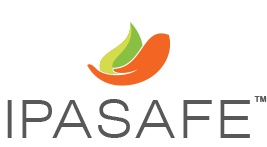
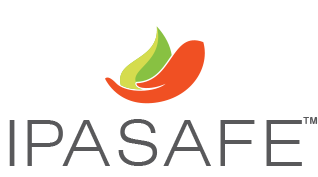
images and css changese

diff --git a/styles/style.css b/styles/style.css
@@ -193,7 +193,7 @@ input:-moz-placeholder {
 /*Header*/
 .header-area { position: absolute; left: 0; top: 0; width: 100%; top: 0; left: 0; width: 100%; transition: all 500ms ease; -moz-transition: all 500ms ease; -webkit-transition: all 500ms ease; -ms-transition: all 500ms ease; -o-transition: all 500ms ease; z-index: 999; }
 .header-area.fixed-header .header-lower{/*box-shadow: 0 0 7px 2px rgba(0,0,0,0.25);*/border-bottom: 1px solid rgba(170,170,170,0.26);}
-.header-lawer-content .logo { text-align: center; padding: 20px 0 20px 0; width:200px; }
+.header-lawer-content .logo { text-align: center; padding: 20px 0 20px 0; width:392px; }
 .header-lawer-content .logo a { display: inline-block; }
 .main-menu { position: relative; }
 .main-menu .navigation { margin: 0; position: relative; text-align: center }
@@ -201,7 +201,7 @@ input:-moz-placeholder {
 .main-menu .navigation li:first-child { margin-left: 0px; }
 .main-menu .navigation li::before { }
 .main-menu .navigation li:last-child:before { display: none; }
-.main-menu .navigation li a { text-decoration: none; position: relative; color: #404041; display: block; font-size: 15px; line-height: 16px; text-transform: uppercase; opacity: 1; padding: 20px 0px 30px 0; transition: all 300ms ease;font-weight: 400;}
+.main-menu .navigation li a { text-decoration: none; position: relative; color: #404041; display: block; font-size: 15px; line-height: 16px; text-transform: uppercase; opacity: 1; padding: 20px 0px 20px 0; transition: all 300ms ease;font-weight: 400;}
 .main-menu .navigation li a i{margin-left: 5px;}
 .main-menu .navigation li .menuIcons a { font-size: 20px; display: inline-block; vertical-align: middle; margin: 0 5px }
 .main-menu .navigation li .menuIcons a:first-child { margin-left: 0 }
@@ -220,7 +220,7 @@ input:-moz-placeholder {
 .mainmenu-middle ul li { display: inline-block; float: left; margin-right: 10px; border-right: 1px solid #e4e4e4; padding-right: 10px; }
 .mainmenu-middle ul li:last-child { margin-right: 0px; border-right: 0px solid #e4e4e4; padding-right: 0px; }
 .header-lower-left { float: left }
-.header-lower-right { float: right; margin-top: 35px; }
+.header-lower-right { float: right; margin-top: 55px; }
 .header-lower-left .dsirLogo{float:left; width:27px; margin-left:40px; margin-top:40px;}
 .header-lower-left .logo{float:left}
 .dsirLogo img{max-width:100%;}
@@ -428,8 +428,10 @@ h3.home-about-text span.smallLeaf img{height: 12px;}
 	margin-top: 20px;
 }
 .heading p.cases-desc{
-	font-size: 16px; margin-bottom: 1rem;
+	font-size: 16px; margin-bottom: 1rem;letter-spacing: -0.3px;
 }
+.heading h2.sizes-heading{font-size: 52px;line-height: 62px;}
+.product-hr{margin-bottom: 2rem;}
 .cases-item-customer { font-size: 12px;  font-weight:300; margin: 0 }
 .product-1 { background: url(../images/product-img-1.jpg) }
 .product-2 { background: url(../images/product-img-2.jpg) }
@@ -539,8 +541,8 @@ overflow: hidden }
 .phylosypyText1.chromalgin2color ul li a{color: #fff;text-decoration:underline;}
 .phylosypyText1.chromalgin2color ul li a:hover{font-weight:400;}
 .phylosypyText1.chromalgin2color ul li i{}
-.phylosypyText1.chromalgin2color ul li i img {width: 130px;}
-.phylosypyText1.chromalgin2color ul li p {color: #fff;margin: 0;}
+.phylosypyText1.chromalgin2color ul li i img {width: 176px;}
+.phylosypyText1.chromalgin2color ul li p {color: #fff;margin:20px 0 0 0;font-size:32px;font-weight: 100;}
 
 .chromalgin-page #whatDoctorSays{position:relative;top:-60px;}
 
@@ -618,7 +620,9 @@ overflow: hidden }
 .panel .answer .pointers{background: #ddd;padding: 10px 10px;}
 .panel .answer ul{margin-bottom:30px;margin-top:-10px;}
 .panel .answer li {margin-bottom: 10px;font-size: 17px;line-height: 26px;padding-left: 35px;position: relative;background: url(../images/small-leaf.png) 0px 9px no-repeat;background-size: 18px;}
-.otherProduct li {    margin-bottom: 10px; font-size: 17px; line-height: 26px; padding-left: 22px; position: relative; background: url(../images/blackBullet.png) 0px 2px no-repeat; background-size: 14px;}
+.otherProduct {margin-bottom: 20px;}
+.features-heading{margin-bottom: 10px;}
+.otherProduct li {    margin-bottom: 0px; font-size: 17px; line-height: 26px; padding-left: 22px; position: relative; background: url(../images/blackBullet.png) 0px 2px no-repeat; background-size: 14px;}
 .references ol li { margin-top: 5px; font-size: 12px; line-height: 15px; position: relative; list-style-type: decimal;margin-left: 13px; }
 .panel .answer li:before {content: "";width: 10px;height: 1px;position: absolute;top: 12px;left: 8px;background: #404040;}
 .brakebox {padding-bottom:30px;}
@@ -684,7 +688,8 @@ overflow: hidden }
 .innerpageHeading {background:#fff; position:relative; z-index:1}
 .phylosopyBloack{position:relative; z-index:3; background:#fff;}
 .innerBanner{position:relative}
-.innerpageHeading .heading{padding-top:210px; padding-bottom:70px}
+.innerpageHeading .heading{padding-top:120px; padding-bottom:70px}
+.ipasafe-bottle{margin-left:100px;}
 .innerPageTop{padding-top:100px}
 .innerBannerBlock{position:relative; background-position: 50% 50%;background-repeat: no-repeat;background-attachment: fixed;background-size: cover;}
 .phylosophyBg{background:url(../images/philosophy-bg.jpg) 0 0 no-repeat;background-position: center center;background-attachment: fixed;background-size: cover; min-height:80vh}
@@ -759,8 +764,8 @@ ul.dash-bullet li:before{content:"";position:absolute;width: 10px;height: 1px;ba
 }
 @media(min-width:1920px) {
 .ourmissionBg{background:#f2f2f2 url(../images/our-mission-bg.jpg) left center no-repeat; background-size:cover;background-position: center -50px;}
-.phylosypyText1.chromalgin2color ul li{padding: 40px 80px;}
-.phylosypyText.chromalgin2color ul li{padding: 40px 80px;}
+.phylosypyText1.chromalgin2color ul li{padding: 40px 20px;}
+.phylosypyText.chromalgin2color ul li{padding: 40px 20px;}
 }
 
 @media screen and (min-width: 1367px) and (max-width:1600px) {
@@ -773,9 +778,14 @@ ul.dash-bullet li:before{content:"";position:absolute;width: 10px;height: 1px;ba
 .container { max-width: 1200px; }
 .expertiseBox{ min-height:700px}
 .rev_slider_wrapper .slide-contentbx {right: 18%;transform: translateY(-22%);}
+
 }
  @media screen and (min-width: 1200px) and (max-width:1600px) {
 .container { max-width: 1200px; }
+.phylosypyText1.chromalgin2color ul li{min-height: 200px;padding: 30px;}
+.phylosypyText1.chromalgin2color ul li i img {width: 130px;}
+.phylosypyText1.chromalgin2color ul li p {font-size:24px;}
+
 }
 @media screen and (min-width: 0) and (max-width:1199px) {
 /*overlay*/
@@ -798,6 +808,10 @@ ul.dash-bullet li:before{content:"";position:absolute;width: 10px;height: 1px;ba
 .phylosophyBg{background-size:auto; min-height:50vh}
 .missionText {margin-top:0 !important}
 .phylosypyText {padding-top:50px;}
+.heading h2.sizes-heading{font-size: 48px;line-height: 52px;}
+.phylosypyText1.chromalgin2color ul li{min-height: 170px;padding: 15px 15px;}
+.phylosypyText1.chromalgin2color ul li i img {width: 100px;}
+.phylosypyText1.chromalgin2color ul li p {font-size:18px;}
 }
  @media screen and (min-width: 0) and (max-width:1024px) {/*For ipad and tab*/
 }
@@ -873,6 +887,7 @@ ul.submenu{position: relative;left: 0;box-shadow: none;width: auto;border-bottom
 .header-lawer-content .logo { padding: 10px 0 }
 .header-lower-left .dsirLogo { margin-top: 17px }
 .heading h2 { font-size: 32px;line-height: 36px; }
+
 .wdsSlider .slick-dots { bottom: -25px; }
 .wdsMovingTxt::before { left: -18px; top: -25px; width: 60px; height: 43px; background-size: 100% auto; }
 .wdsImg { text-align: center }
@@ -917,6 +932,8 @@ p.subhead{font-size:20px;line-height: 26px;}
 .heading{padding:50px 0 50px 0}
 .missionText{padding:0 0 25px 0; margin-top:0 !important}
 .phylosypyText  .smallBlockHeading h3{padding-bottom:1rem;}
+.heading h2.sizes-heading{    font-size: 18px;line-height: 20px;}
+.phylosypyText1.chromalgin2color ul li{min-height: 200px;padding: 15px 15px;}
 }
  @media screen and (min-width: 0) and (max-width:767px) {
 .abouteLeaf { display: none }
@@ -956,7 +973,7 @@ p.subhead{max-width: 100%;}
 .ourMissionBloack .container{padding-top: 20px;padding-bottom:5px;}
 .ourMissionBloack .container img{margin-top: 0!important;}
 .ipasafe-bottle{margin: 0 auto!important;display: block;max-width:200px;}
-.phylosypyText1.chromalgin2color ul li{width: 50%;border-bottom: 1px solid #eee;}
+.phylosypyText1.chromalgin2color ul li{width:49%;border-bottom: 1px solid #eee;}
 .otherProduct ul{margin-bottom: 15px!important;}
 /*.ourmissionBg {background-size: 713px auto;background-position: 0px bottom;padding-top: 0;padding-bottom: 200px;}*/
 .ourmissionBg {background-size: 700px auto;background-position: 0px 335px;padding-top: 0;padding-bottom: 200px;}
@@ -1006,7 +1023,9 @@ br{display:none;}
 .md-mr0{margin-right:0px !important;}
 .md-ml0{margin-left:0px !important;}
 .mob-display{display:block !important}
-
+.phylosypyText1.chromalgin2color ul li {min-height: 170px;}
+.phylosypyText1.chromalgin2color ul li i img{width: 80px;}
+.phylosypyText1.chromalgin2color ul li p{font-size: 16px;}
 }
 @media screen and (min-width: 0) and (max-width:480px) {
 }

diff --git a/ipasafe.html b/ipasafe.html
@@ -23,10 +23,8 @@
           <div class="col-md-12">
             <div class="header-lawer-content clearfix">
               <div class="header-lower-left">
-                <div class="logo"> <a href="index.html"> <img src="images/logo.png" alt="Awesome Logo"> </a> </div>
-                <div class="dsirLogo"> <img src="images/dsir.png">
-                  <p>DSIR recognized R&D Facility</p>
-                </div>
+                <div class="logo"> <a href="index.html"> <img src="images/logo.jpg" alt="Awesome Logo"> </a> </div>
+
                 <div class="clear"></div>
               </div>
               <div class="mobile-nav-icon">
@@ -87,7 +85,7 @@
     <div class="container">
       <div class="heading pb-0 wow animated fadeInUp" data-wow-delay="0.2s">
         <div class="row" style="display: flex;align-items: center;">
-          <div class="col-lg-12 col-md-12 col-sm-12 wow animated fadeInLeft" data-wow-delay="0.2s"> <img src="images/ipasafe.png" class="ml-4 ipasafe-bottle"> </div>
+          <div class="col-lg-12 col-md-12 col-sm-12 wow animated fadeInLeft" data-wow-delay="0.2s"> <img src="images/ipasafe.png" class="ipasafe-bottle"> </div>
         </div>
         <div class="row" style="display: flex;align-items: center;">
           <div class="col-lg-6 col-md-6 col-sm-6 wow animated fadeInLeft" data-wow-delay="0.2s"> <img src="images/ipasafe-tank.png" class="mt-4"> </div>
@@ -104,7 +102,7 @@
               <div class="smallBlockHeading wow fadeInUp" data-wow-delay="0.2s" style="visibility: visible; animation-delay: 0.2s; animation-name: fadeInUp;"> <img src="images/ipasafe.png" width="90%" style="max-width: 267px;" class="ipsafe1"> </div>
             </div>
             <div class="col-lg-8 col-md-8 col-sm-6 col-xs-6 fl wow fadeInLeft ipsafe2 text-left" data-wow-delay="0.8s" style="visibility: visible; animation-delay: 0.8s; animation-name: fadeInLeft;">
-              <h2>is available in two pack sizes</h2>
+              <h2 class="sizes-heading">is available in two pack sizes</h2>
             </div>
             <div class="clear"></div>
           </div>
@@ -125,11 +123,11 @@
               <p class="subhead">Bulk pack for offices, hospitals, markets and congregation points</p>
               <a class="box-btn1" href="#" style="text-decoration: none;">ORDER NOW</a> </div>
           </div>
-          <hr>
+          <hr class="product-hr">
           <h2>instructions for using ipasafe&trade;</sup></h2>
           <div class="row" style="display: flex;align-items: center;">
-            <div class="col-lg-8 col-md-8 col-sm-8 wow  fadeInLeft" data-wow-delay="0.2s" style="visibility: visible; animation-delay: 0.2s; animation-name: fadeInLeft;"> <img src="images/instructions-handwash.png" class="mt-4"> </div>
-            <div class="col-lg-4 col-md-4 col-sm-4 wow  fadeInRight" data-wow-delay="0.2s" style="visibility: visible; animation-delay: 0.2s; animation-name: fadeInRight;">
+            <div class="col-lg-7 col-md-7 col-sm-7 wow  fadeInLeft" data-wow-delay="0.2s" style="visibility: visible; animation-delay: 0.2s; animation-name: fadeInLeft;"> <img src="images/instructions-handwash.png" class="mt-4"> </div>
+            <div class="col-lg-5 col-md-5 col-sm-5 wow  fadeInRight" data-wow-delay="0.2s" style="visibility: visible; animation-delay: 0.2s; animation-name: fadeInRight;">
               <h3 class="instruction-duration cases-item-name font-weight-bold" >Duration of <br>
                 the entire <br>
                 procedure <br>
@@ -138,18 +136,19 @@
             </div>
           </div>
           <p class="instruction-line">Adapted from: Hand Hygiene: Why, How & When? [Internet] [Cited 2020 April 21]. Available at: <a href="https://www.who.int/gpsc/5may/Hand_Hygiene_Why_How_and_When_Brochure.pdf" target="blank">https://www.who.int/gpsc/5may/Hand_Hygiene_Why_How_and_When_Brochure.pdf</a></p>
-          <hr>
+          <hr class="product-hr">
           <h2>composition of ipasafe<sup>tm</sup></h2>
           <div class="row otherProduct">
             <div class="col-md-12">
               <ul class="mb-0 mt-0">
-                <li>Iso Propyl Alcohol (In House) 80%</li>
-                <li>Benzalkonium Chloride and humectants 1%</li>
-                <li>Water (In house) 19%</li>
+                <li>Isopropyl alcohol 80% </li>
+                <li>Benzalkonium chloride and humectants 1%</li>
+                <li>Water 19%</li>
                 <li>Permitted colors and perfumes</li>
               </ul>
             </div>
           </div>
+          <hr class="product-hr">
         </div>
       </div>
     </div>
@@ -157,8 +156,15 @@
   <section class="aboutUsBloack innerpageHeading hiddenoverFlow chromalginpackshot p-0 mb-0">
     <div class="">
       <div class="phylosypyText1 p-md-0 chromalgin2color" style="margin-top: 0px !important;">
+        <div class="container">
+          <div class="heading pt-0 pb-0">
+            <h2 class="features-heading">ipasafe<sup>tm</sup> Features</h2>
+          </div>
+        </div>
         <div class="row">
+
           <div class="col-lg-12 p-0">
+           
             <ul>
               <li class="wow animated fadeIn" data-wow-delay="0.2s" style="background: #f26522;"><i><img src="images/instantProtection.png"></i>
                 <p>Instant protection </p>
@@ -181,7 +187,7 @@
     </div>
   </section>
   <section class="ourMissionBloack">
-    <div class="container heading">
+    <div class="container heading ">
       <div class="phylosypyText11">
         <h2>precautions while using ipasafe<sup>TM</sup></h2>
         <div class="row otherProduct">
@@ -199,7 +205,7 @@
         </div>
       </div>
       <div class="row" style="display: flex;align-items: center;">
-        <div class="col-lg-8 col-md-8 col-sm-8 wow  fadeInLeft" data-wow-delay="0.2s" style="visibility: visible; animation-delay: 0.2s; animation-name: fadeInLeft;"> <img src="images/threeCan.png" class="mt-4"> </div>
+        <div class="col-lg-8 col-md-8 col-sm-8 wow  fadeInLeft" data-wow-delay="0.2s" style="visibility: visible; animation-delay: 0.2s; animation-name: fadeInLeft;"> <img src="images/threeCan.png" class="mt-0"> </div>
         <div class="col-lg-4 col-md-4 col-sm-4 wow  fadeInRight" data-wow-delay="0.2s" style="visibility: visible; animation-delay: 0.2s; animation-name: fadeInRight;"> <a class="box-btn1" href="#" style="text-decoration: none;">ORDER NOW</a> </div>
       </div>
 
